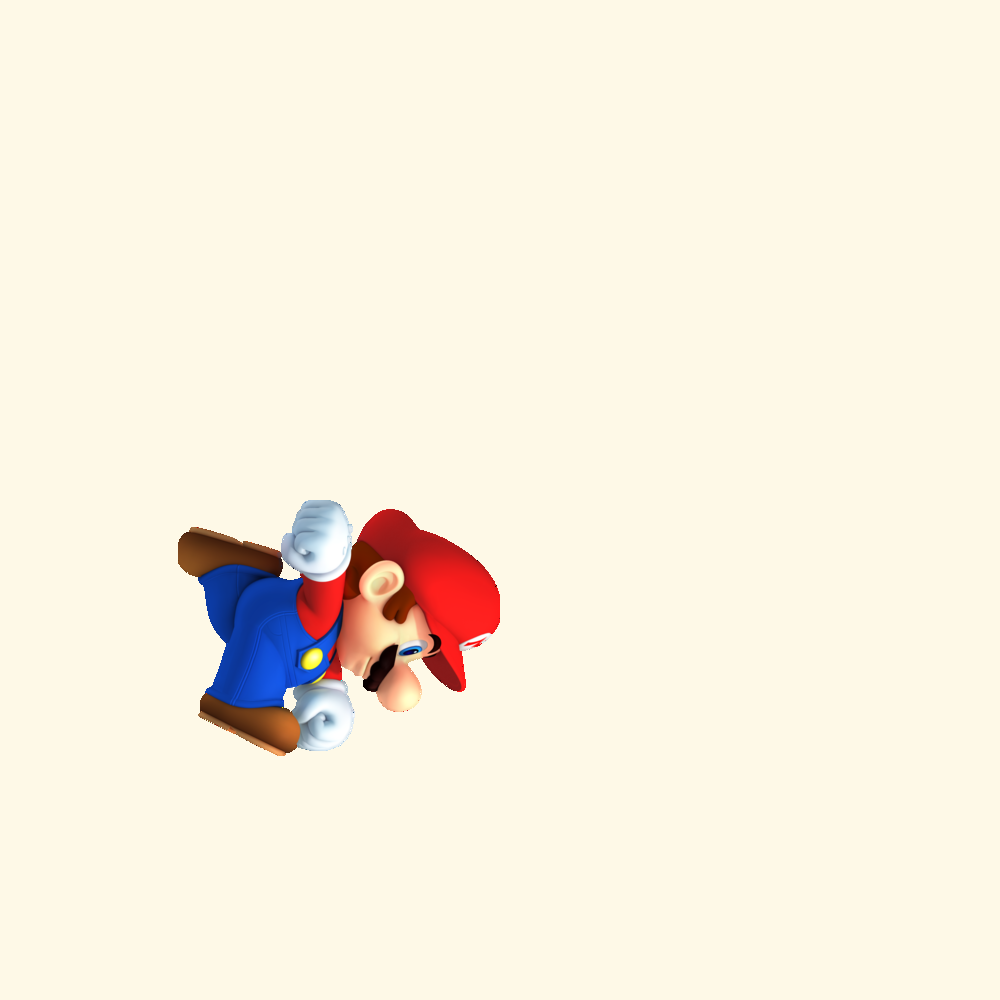
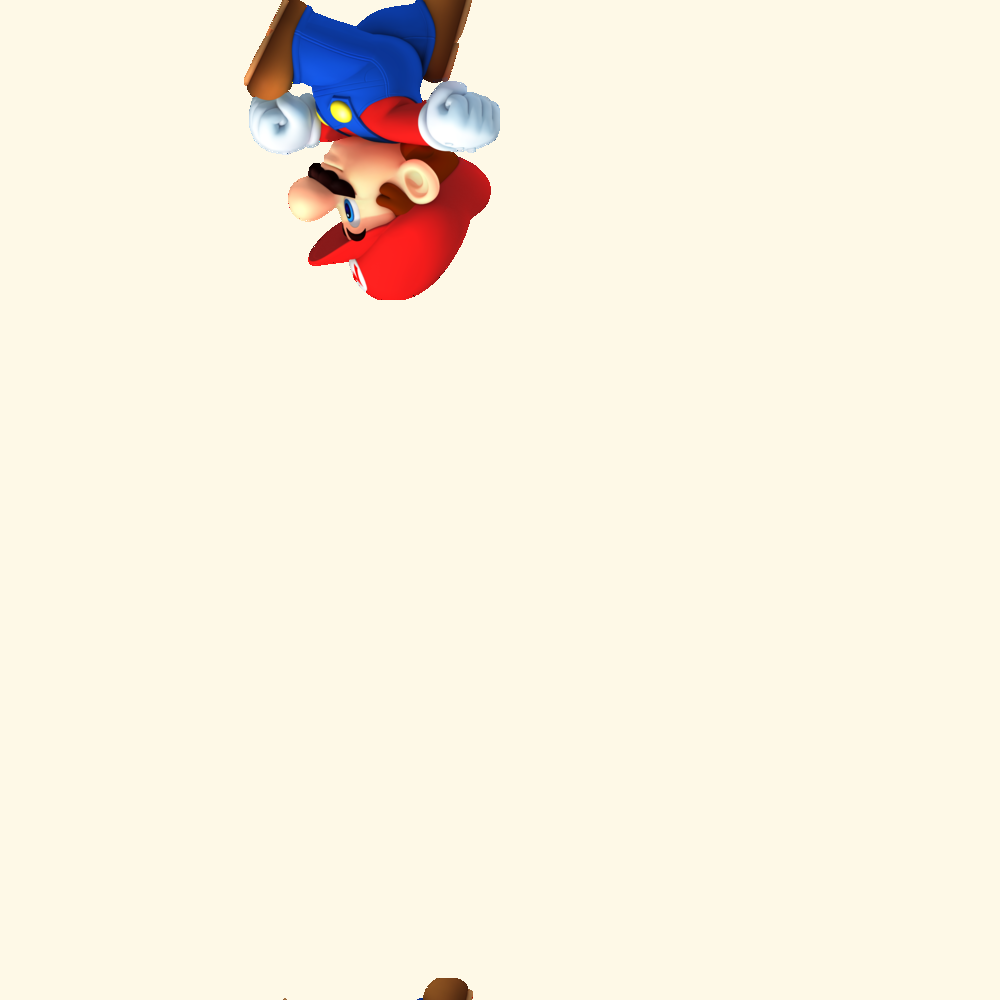
Compatibilidad laptop&pc

Changed region(s): [[0.155, 0.496, 0.527, 0.775], [0.248, 0.0, 0.496, 0.31], [0.403, 0.961, 0.496, 1.0]]

diff --git a/test.cpp b/test.cpp
@@ -12,7 +12,7 @@ int main() {
   moving_image im;
 
   im.draw("imagen.png");
-  im.rotate();
+  im.move_down(200);
   Sleep(2);
   im.draw("imagen_rotada90_1.png");
   im.rotate();
